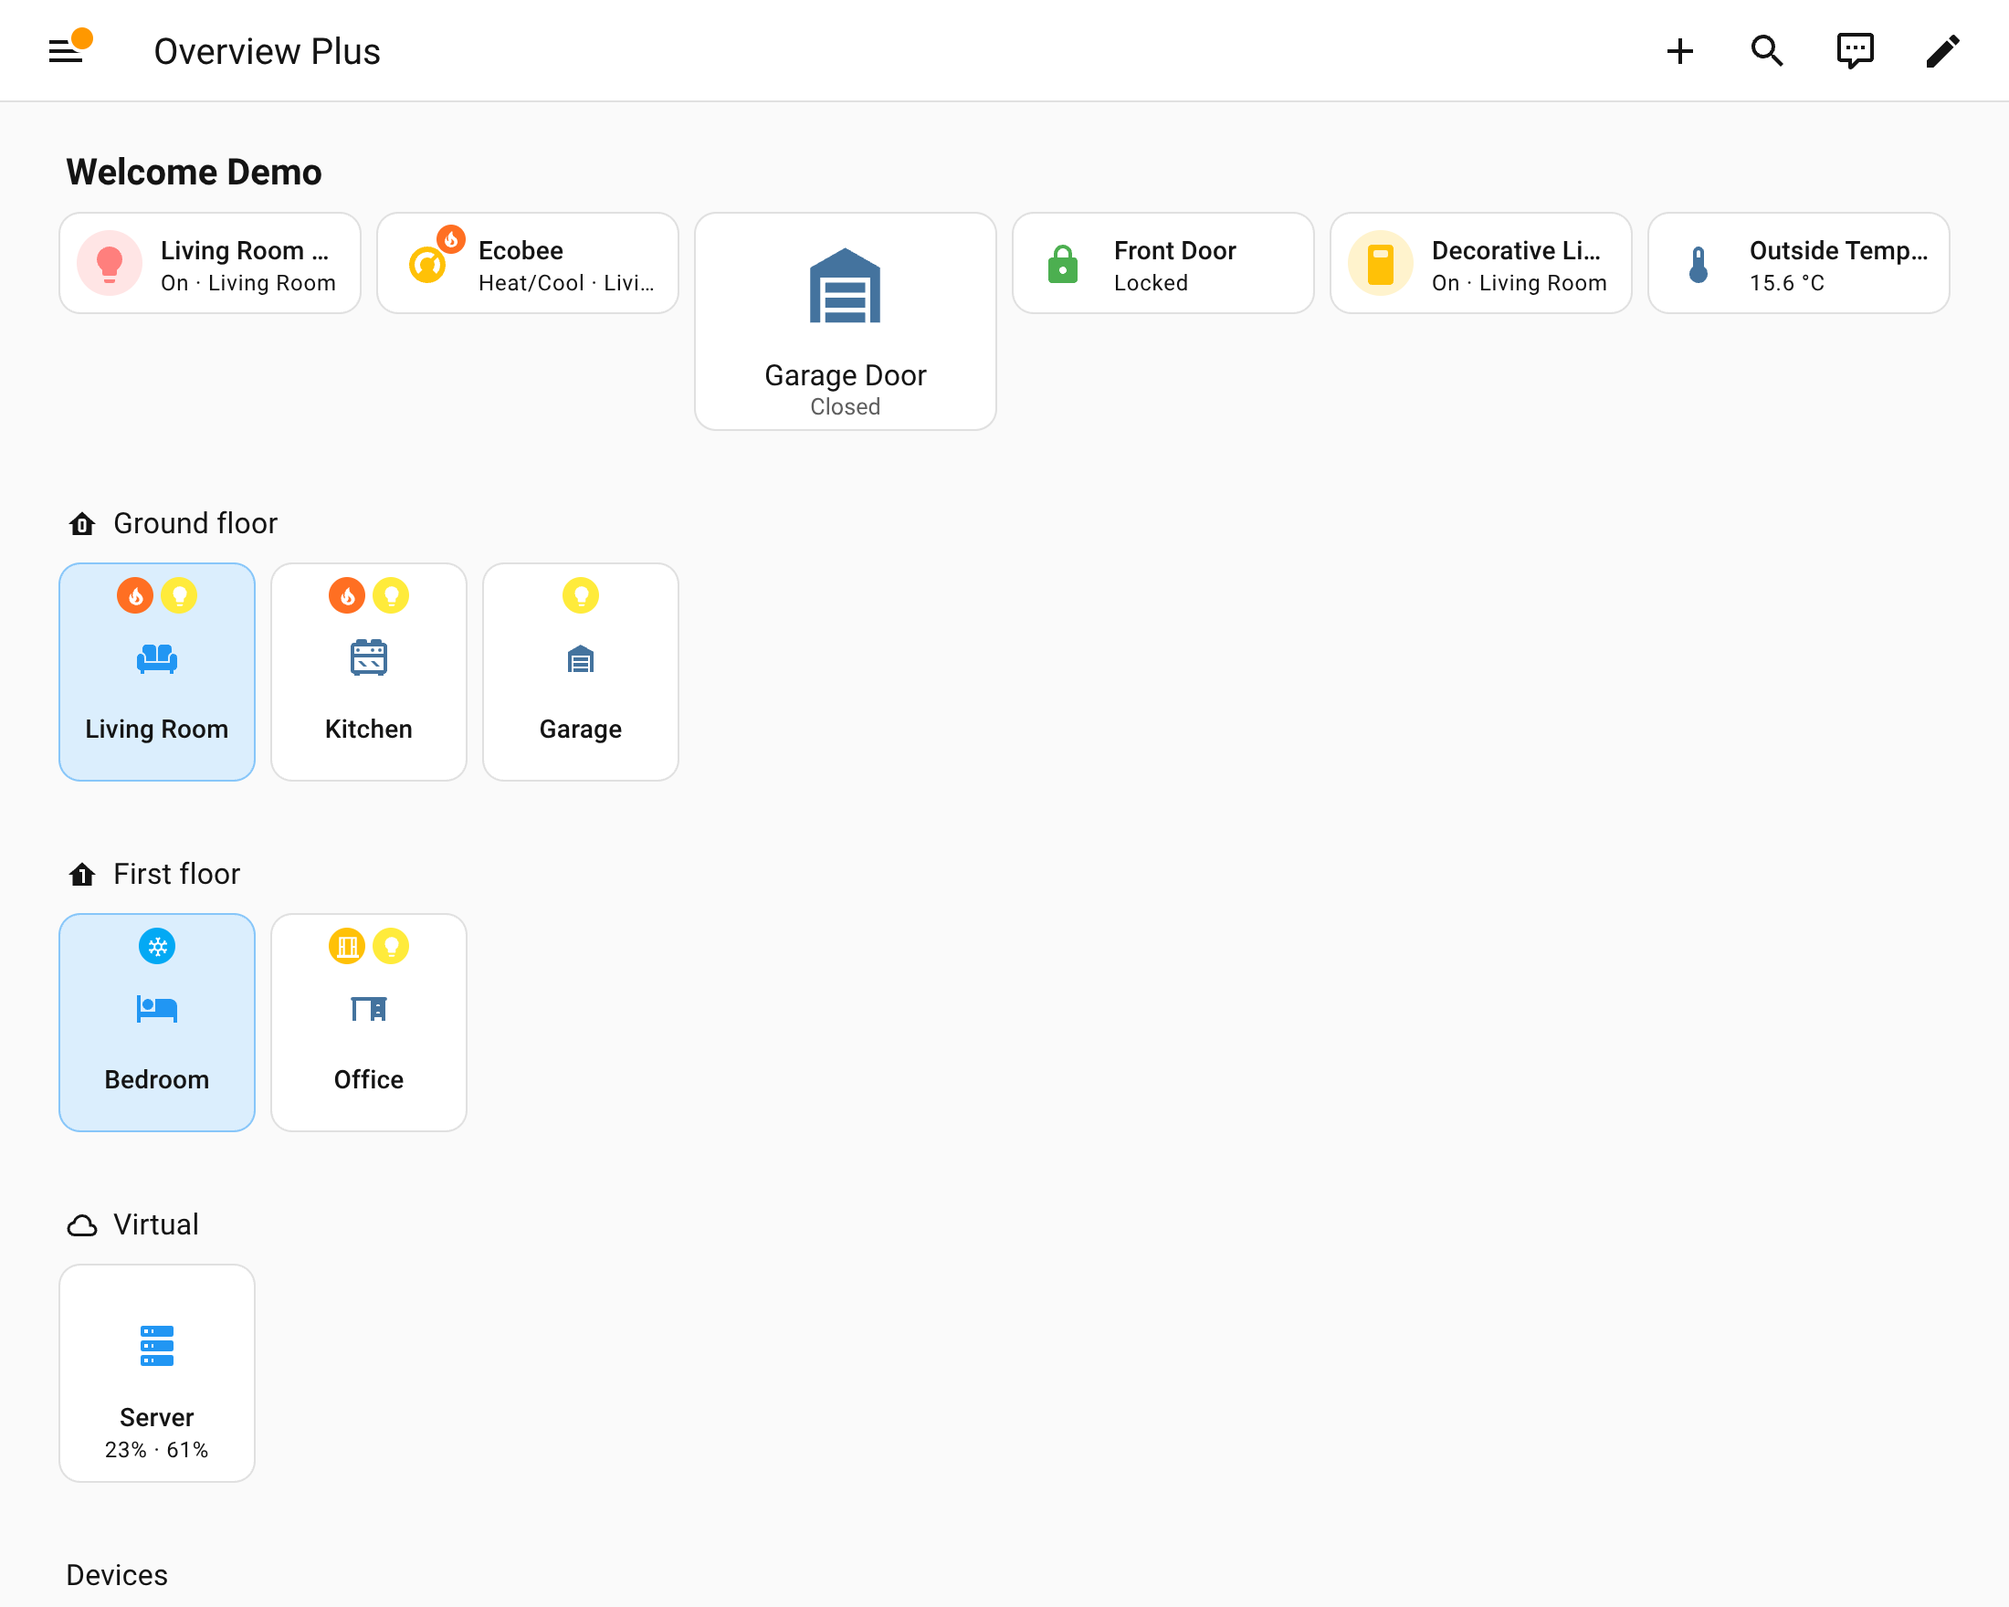
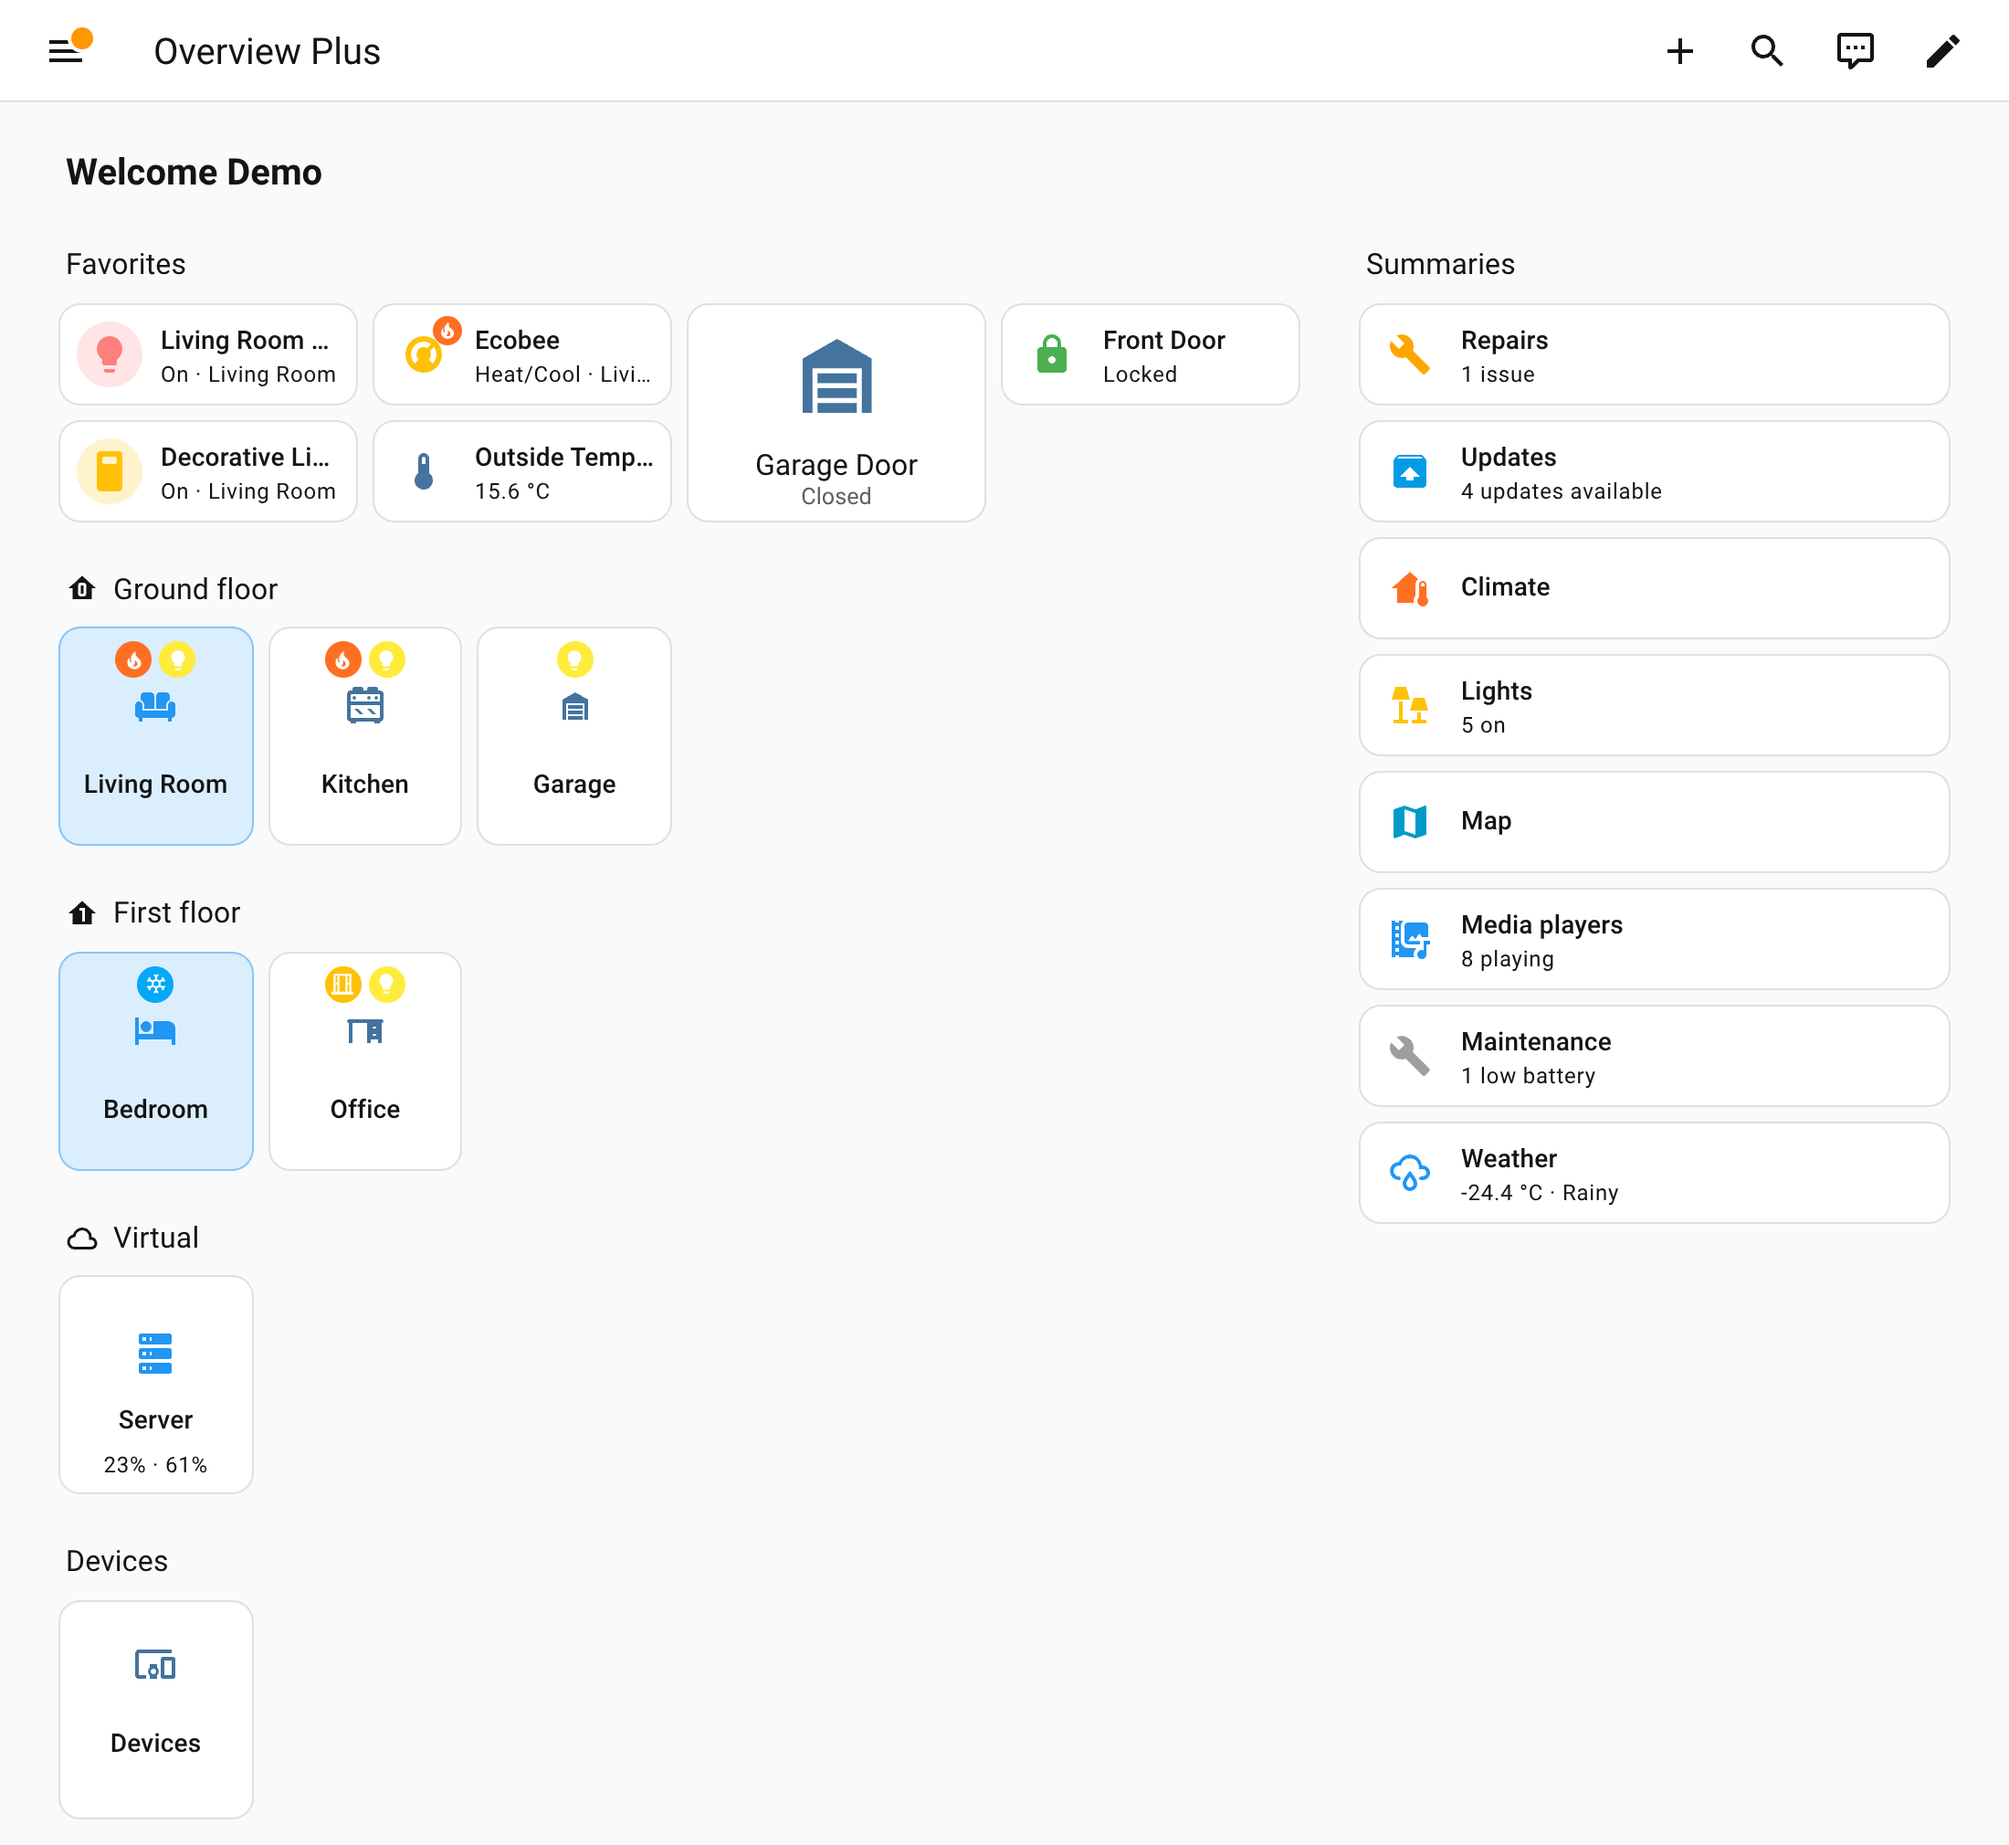
docs: overview screenshots with summaries and shortcuts
The overview screenshots were taken on a Home Assistant 2026.2 demo
instance. That version does not show the summaries (screen-width
visibility) and has no shortcut card, so only half of the overview page
was visible. Retaken on Home Assistant 2026.10.2; the README note that
the summaries are missing is removed.

diff --git a/README.md b/README.md
@@ -17,13 +17,14 @@ what the built-in dashboard does not let you change:
 
 ## Screenshots
 
-Taken from the Home Assistant demo integration. The summaries row of the overview page (lights, climate, security …) is not shown on them.
+Taken from the Home Assistant demo integration.
 
-**Overview page:** favorites, then one tile per area, grouped by floor. Area states: occupied rooms
-are tinted, chips show heating, cooling, lights and an open window. The *Server* tile shows two
+**Overview page:** favorites, then one tile per area, grouped by floor; on the right the
+summaries (repairs, updates, lights, media players, maintenance, weather …) and a shortcut (*Map*).
+Area states: occupied rooms are tinted, chips show heating, cooling, lights and an open window. The *Server* tile shows two
 selected sensors (CPU and memory) instead of temperature.
 
-![Overview page](https://raw.githubusercontent.com/financelurker/ha-overview-plus/main/docs/images/overview.png?v=ac1ca4c8be)
+![Overview page](https://raw.githubusercontent.com/financelurker/ha-overview-plus/main/docs/images/overview.png?v=b9c5b26134)
 
 **Area with its own sections:** *Host* and *Virtual machines* are selected by label, and the area
 name is removed from the card names ("Server CPU load" → "CPU load"). Card rules set the CPU and
@@ -57,7 +58,7 @@ parts, each with a short summary of what is set.
 </tr>
 <tr>
 <td width="50%" valign="top"><b>Area states</b> – which states the area tiles show, their order, tile or chip, icon and color<br><br><img src="https://raw.githubusercontent.com/financelurker/ha-overview-plus/main/docs/images/editor-indicators.png?v=107427816f" alt="Editor: area states"></td>
-<td width="50%" valign="top"><b>Mobile</b> – the overview page on a phone<br><br><img src="https://raw.githubusercontent.com/financelurker/ha-overview-plus/main/docs/images/overview-mobile.png?v=b927038a82" alt="Overview page on a phone"></td>
+<td width="50%" valign="top"><b>Mobile</b> – the overview page on a phone<br><br><img src="https://raw.githubusercontent.com/financelurker/ha-overview-plus/main/docs/images/overview-mobile.png?v=8166147385" alt="Overview page on a phone"></td>
 </tr>
 </table>
 
